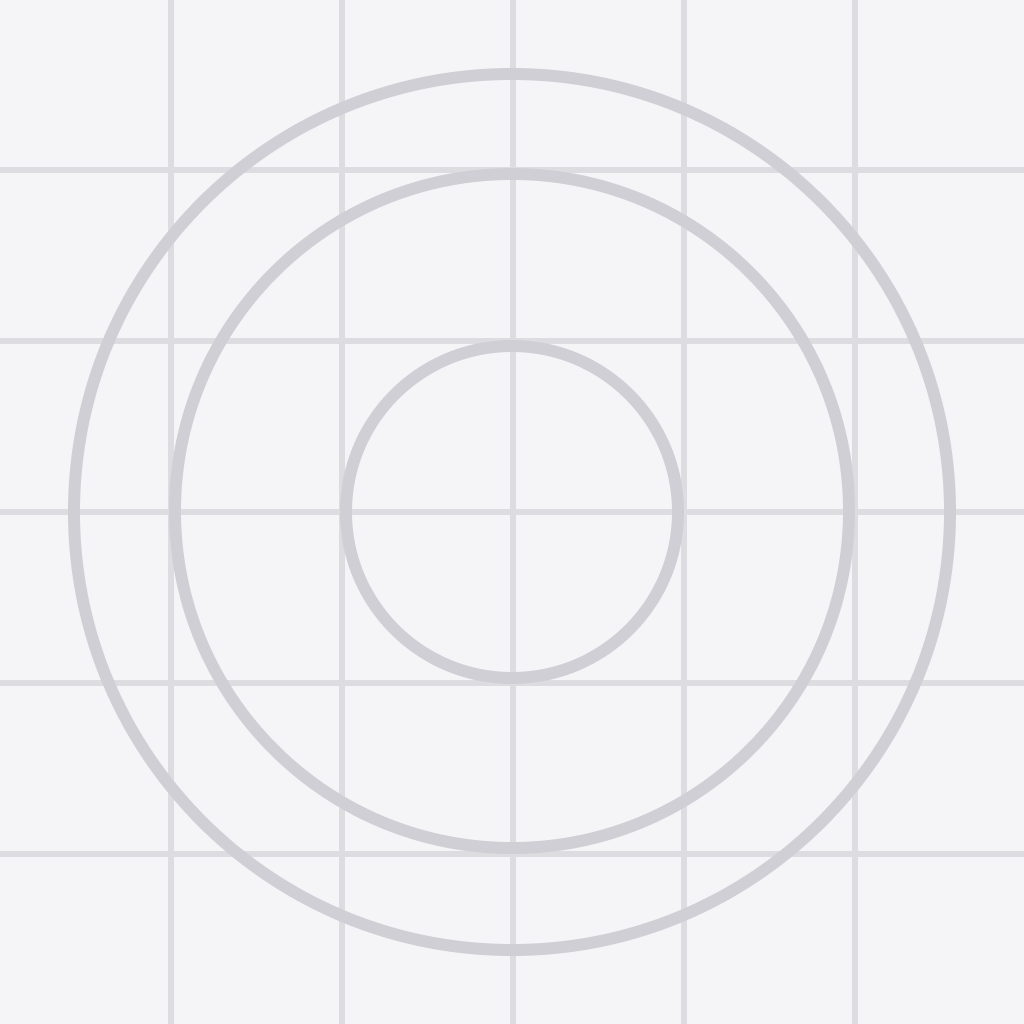
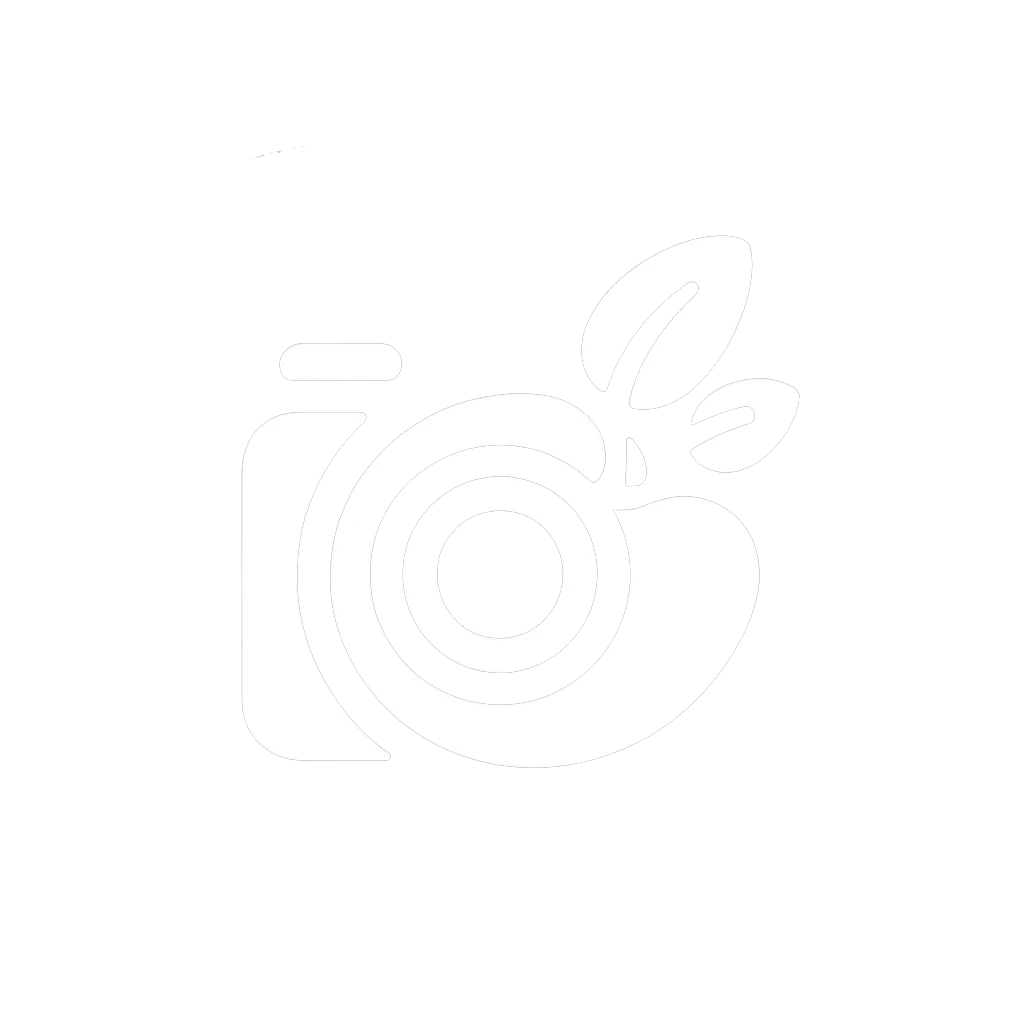
pictures

diff --git a/screens/HomeScreen.js b/screens/HomeScreen.js
@@ -2,7 +2,6 @@ import React, { useState, useEffect, useRef } from 'react';
 import { StyleSheet, View, Text, TouchableOpacity, Modal, Image, Animated, ActivityIndicator, } from 'react-native';
 import { Camera } from 'expo-camera';
 import * as ImagePicker from 'expo-image-picker';
-import axios from 'axios';
 import { useNavigation } from '@react-navigation/native';
 import Anthropic from "@anthropic-ai/sdk";
 import * as ImageManipulator from 'expo-image-manipulator';
@@ -15,7 +14,7 @@ const MacroScanHome = () => {
   const navigation = useNavigation();
   const [extractedText, setExtractedText] = useState("");
   const [isLoading, setIsLoading] = useState(false);
-const buttonScale = useRef(new Animated.Value(1)).current;
+  const buttonScale = useRef(new Animated.Value(1)).current;
 
 const animateButtonPressIn = () => {
   Animated.spring(buttonScale, {